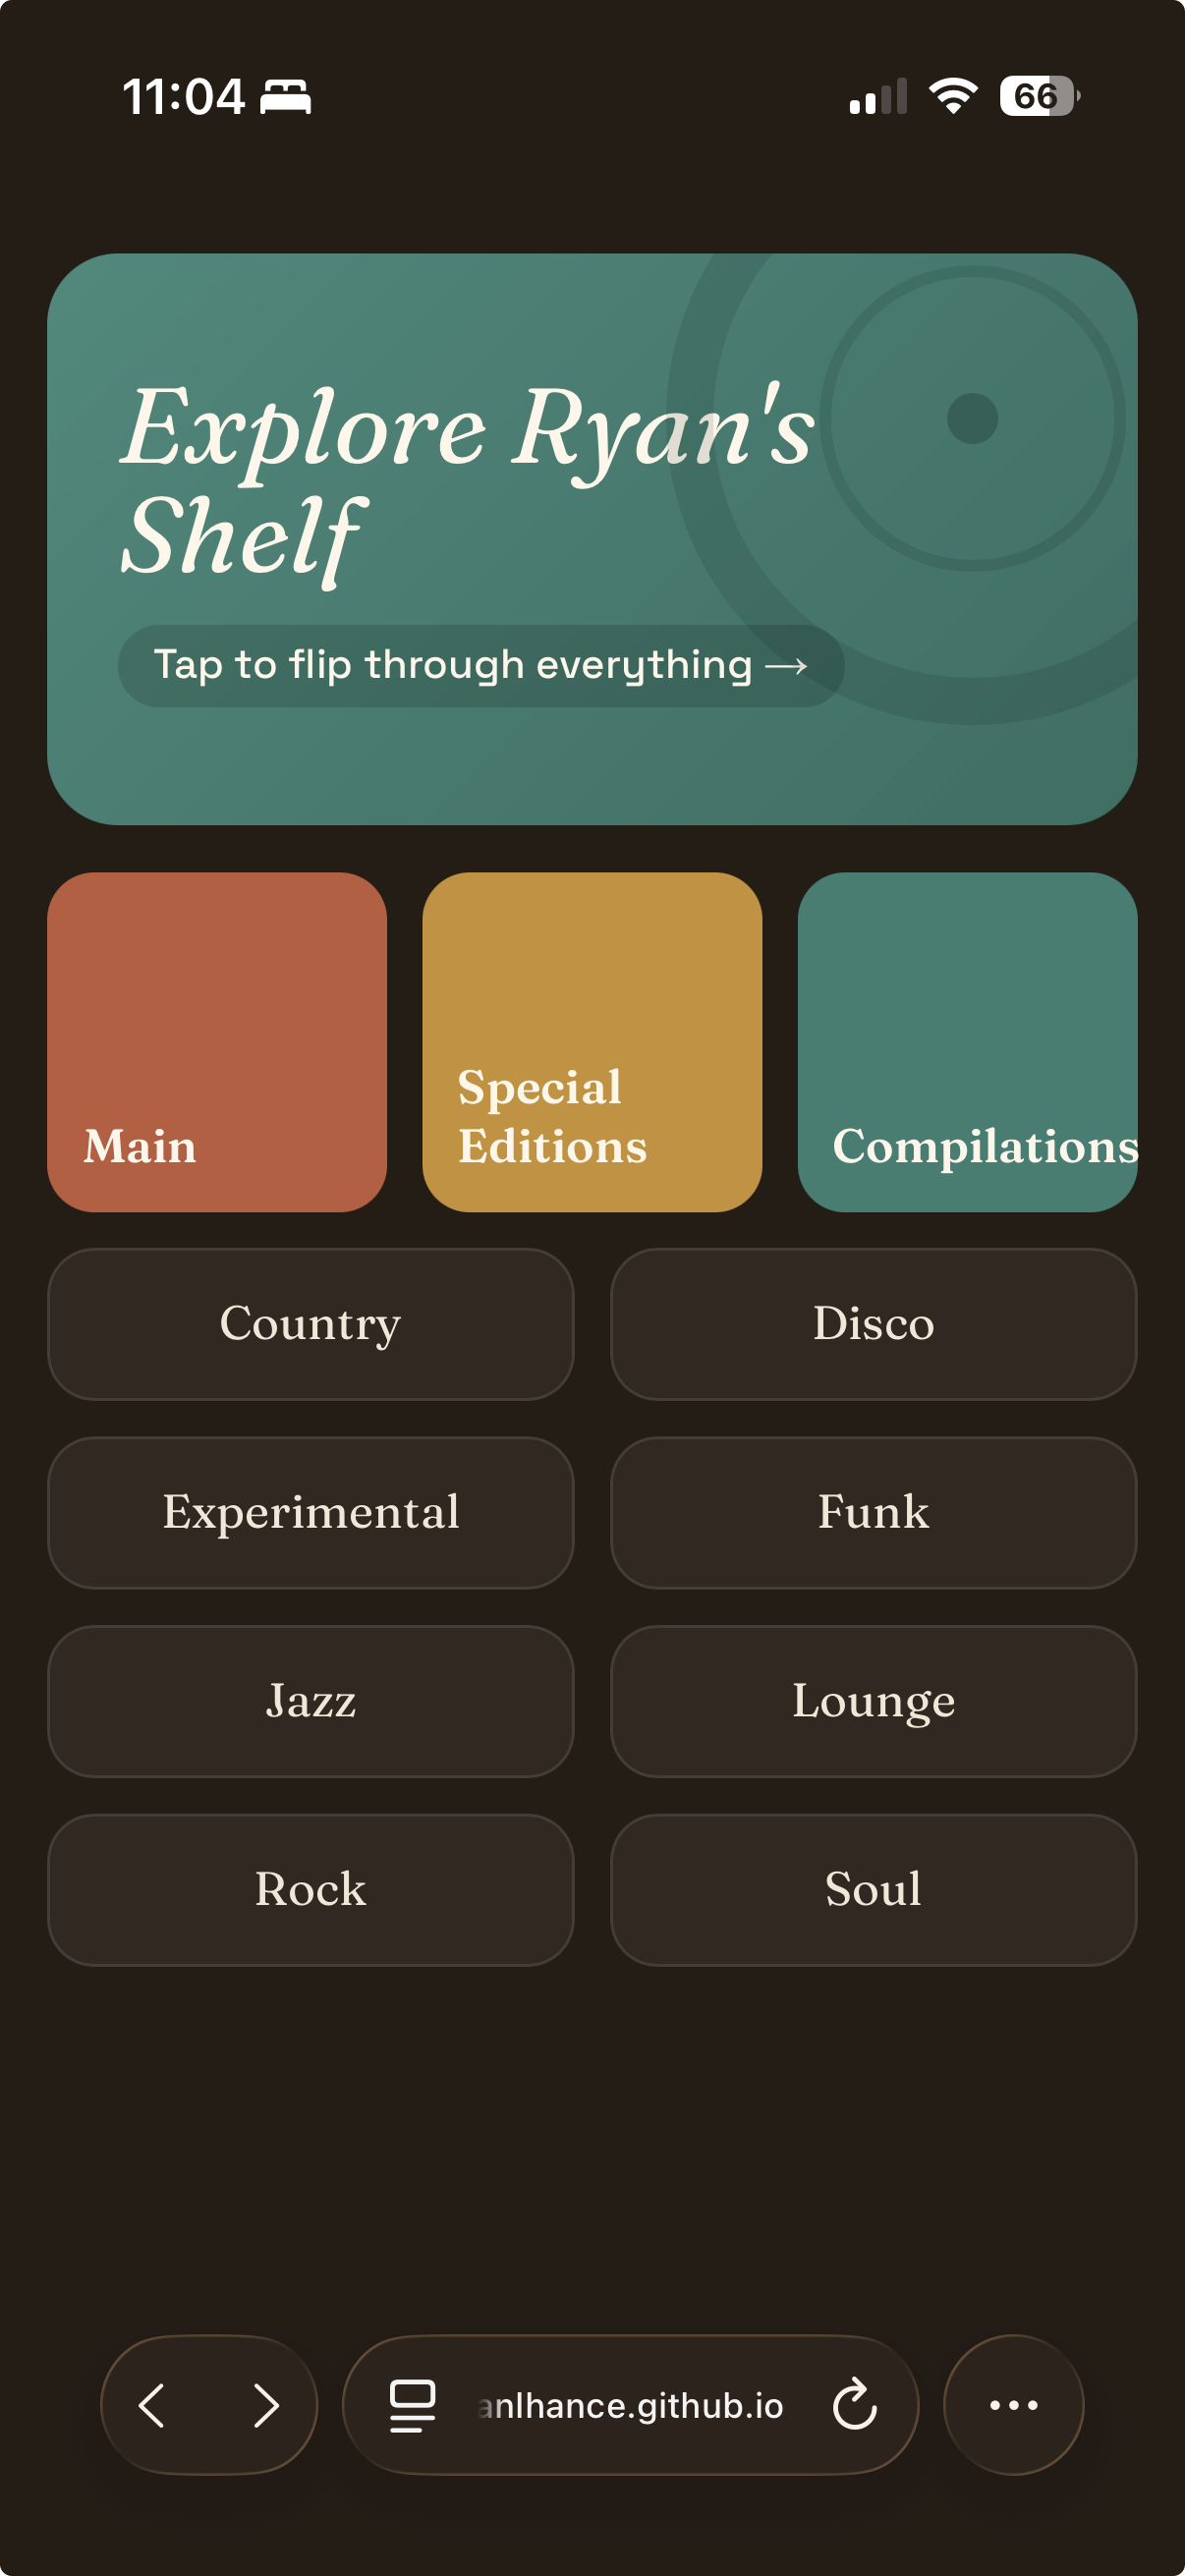
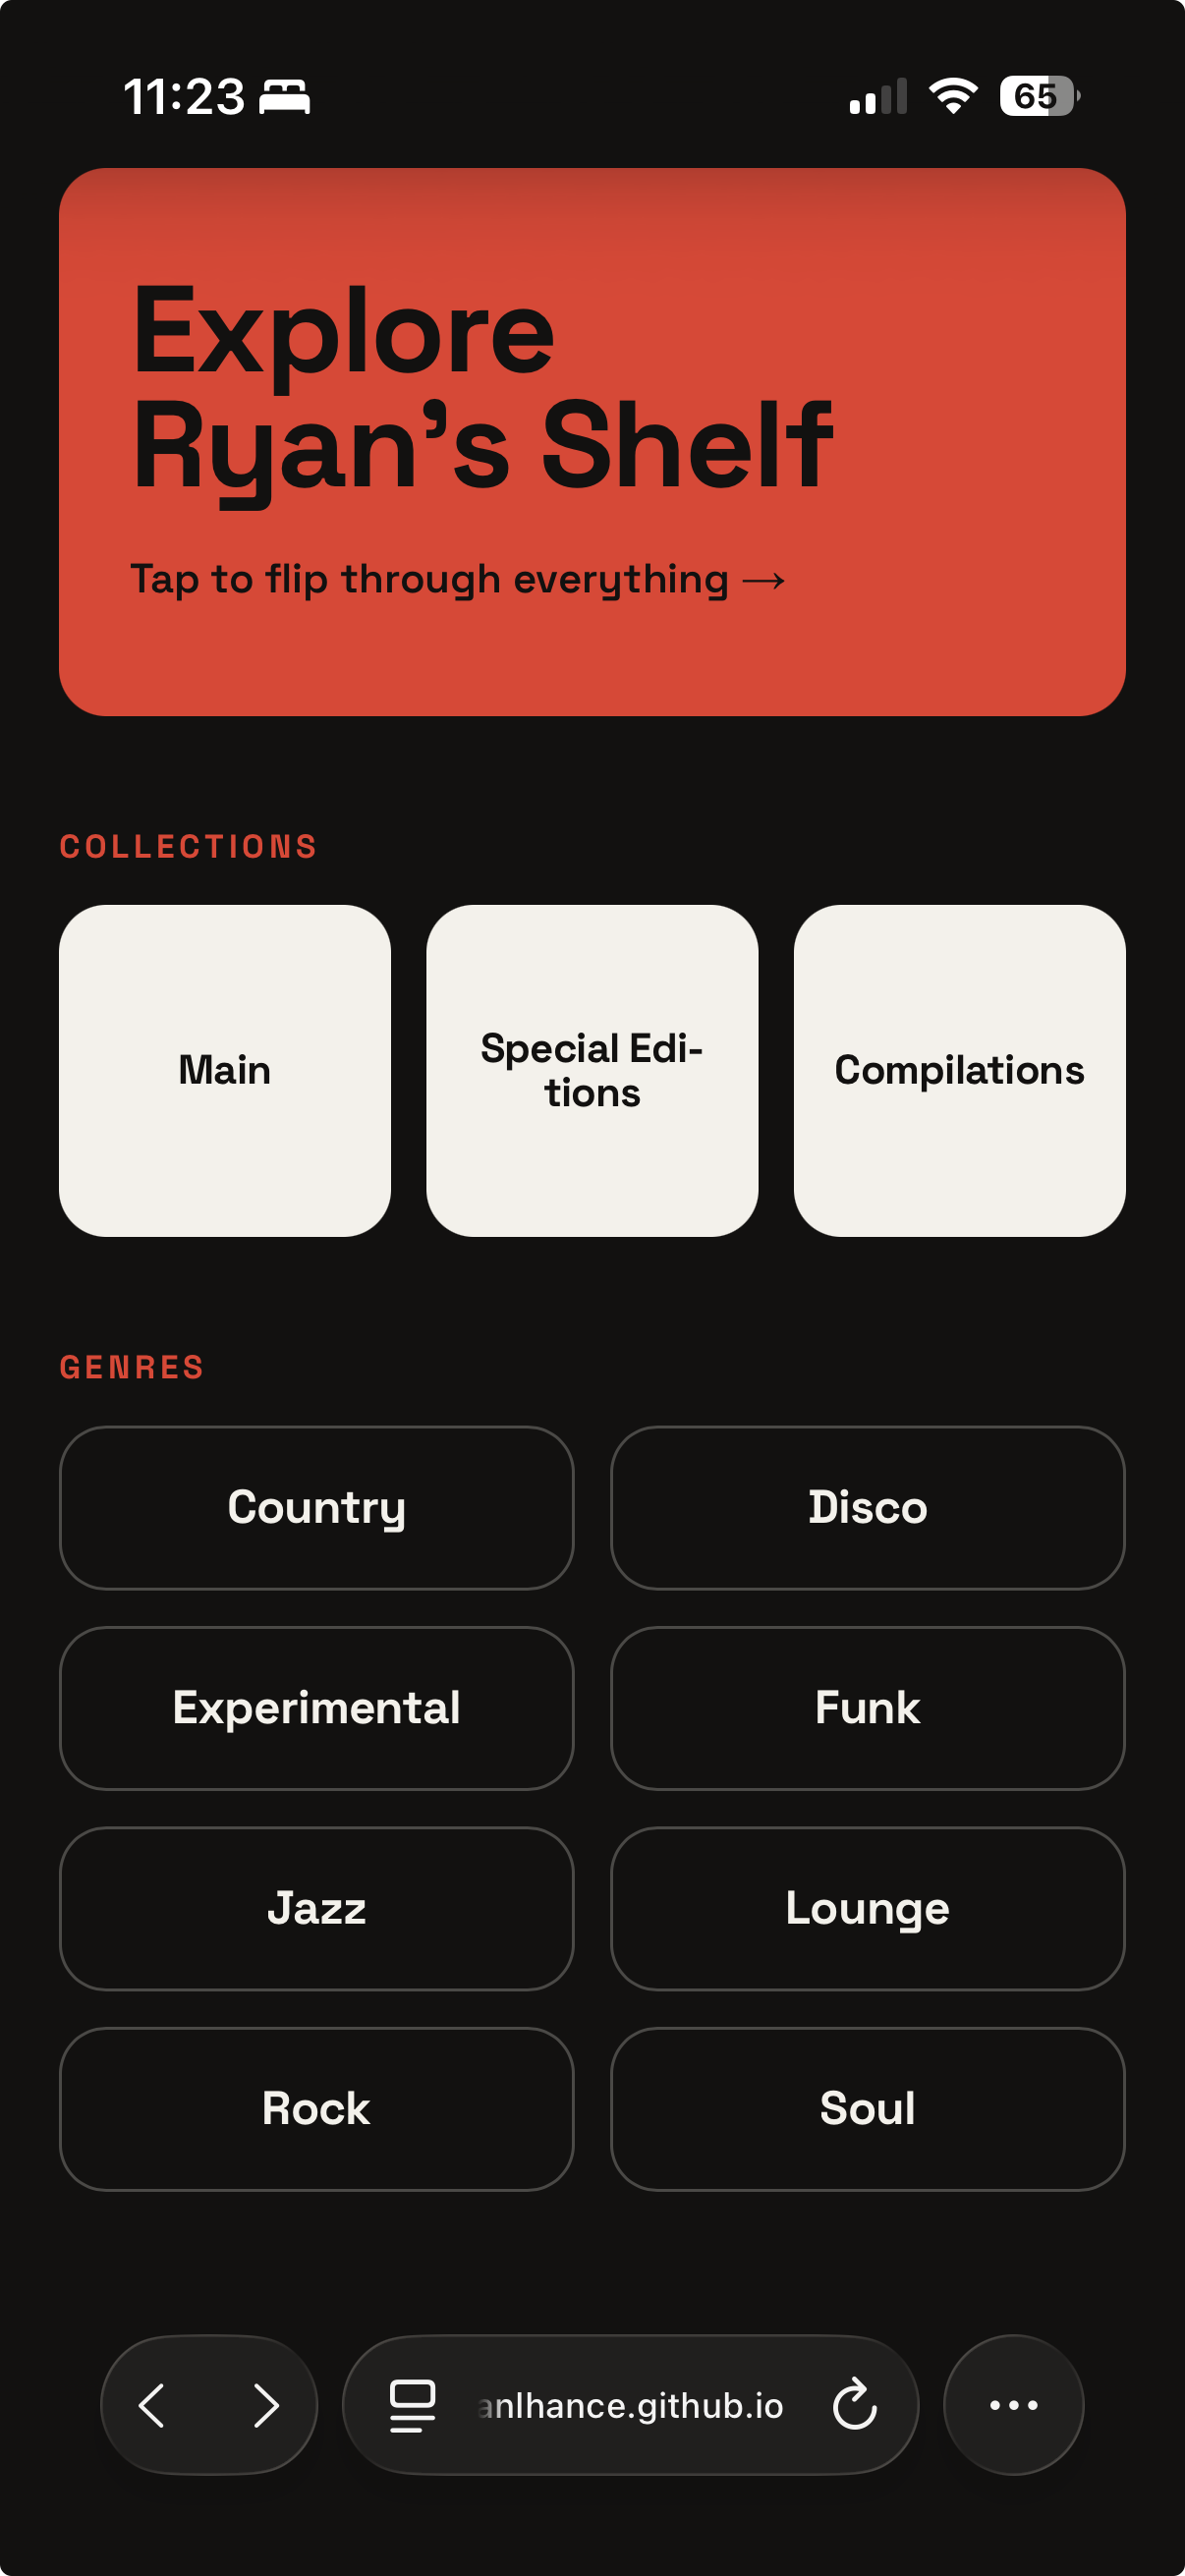
Type + homepage + caption fixes from Ryan's screenshots
- Swap to Bricolage Grotesque (Space Grotesk read too generic/AI)
- Remove "Collections"/"Genres" section labels and the hero subtext;
  hero is just the title + a single thick arrow
- Collection labels: smaller, break only at spaces (no more "Special Edi-tions")
- Coverflow caption is fixed-height so the edition note no longer shifts the
  cover / interrupts scroll flow

diff --git a/src/app/page.tsx b/src/app/page.tsx
@@ -16,21 +16,33 @@ export default function Home() {
           <br />
           Ryan&apos;s Shelf
         </p>
-        <p className="mt-4 text-sm font-semibold">
-          Tap to flip through everything →
-        </p>
+        <svg
+          width="52"
+          height="26"
+          viewBox="0 0 52 26"
+          fill="none"
+          className="mt-5"
+          aria-hidden="true"
+        >
+          <path
+            d="M2 13 H47 M36 3 L48 13 L36 23"
+            stroke="currentColor"
+            strokeWidth="4"
+            strokeLinecap="round"
+            strokeLinejoin="round"
+          />
+        </svg>
       </Link>
 
       {/* Collections */}
-      <p className="eyebrow mb-3 mt-9">Collections</p>
-      <div className="grid grid-cols-3 gap-3">
+      <div className="mt-6 grid grid-cols-3 gap-3">
         {COLLECTIONS.map((c) => (
           <Link
             key={c.type}
             href={`/collection/${c.type}`}
             className="flex aspect-square items-center justify-center rounded-2xl bg-foreground p-2 text-center text-[#121110] transition active:scale-[0.97]"
           >
-            <span className="font-display text-sm leading-[1.1] hyphens-auto [overflow-wrap:break-word]">
+            <span className="font-display text-xs leading-[1.15]">
               {c.label}
             </span>
           </Link>
@@ -38,8 +50,7 @@ export default function Home() {
       </div>
 
       {/* Genres */}
-      <p className="eyebrow mb-3 mt-9">Genres</p>
-      <div className="grid grid-cols-2 gap-3">
+      <div className="mt-3 grid grid-cols-2 gap-3">
         {genres.map((g) => (
           <Link
             key={g}

diff --git a/src/components/CoverFlow.tsx b/src/components/CoverFlow.tsx
@@ -66,14 +66,15 @@ export default function CoverFlow({ albums }: { albums: Album[] }) {
         ))}
       </Swiper>
 
-      {/* Caption for the centered record */}
-      <div className="mt-4 px-6 pb-12 text-center">
-        <p className="font-display text-xl font-semibold leading-snug">
+      {/* Caption — fixed height so the cover never shifts as you scroll,
+          whether or not an album has an edition note. */}
+      <div className="mt-5 flex h-32 flex-col items-center px-6 text-center">
+        <p className="line-clamp-2 font-display text-xl leading-snug">
           {active.title}
         </p>
         <p className="mt-1 text-accent">{active.artist}</p>
         {active.edition && (
-          <p className="mx-auto mt-2 max-w-xs text-sm italic text-muted">
+          <p className="mx-auto mt-2 max-w-xs text-sm italic leading-snug text-muted">
             {active.edition}
           </p>
         )}

diff --git a/src/app/layout.tsx b/src/app/layout.tsx
@@ -1,9 +1,10 @@
 import type { Metadata } from "next";
-import { Space_Grotesk } from "next/font/google";
+import { Bricolage_Grotesque } from "next/font/google";
 import "./globals.css";
 
-// One clean grotesque, used at heavy weights for graphic impact.
-const sans = Space_Grotesk({
+// Bricolage Grotesque: characterful, editorial — has personality at heavy
+// weights without the generic geometric-sans look.
+const sans = Bricolage_Grotesque({
   variable: "--font-sans",
   subsets: ["latin"],
 });